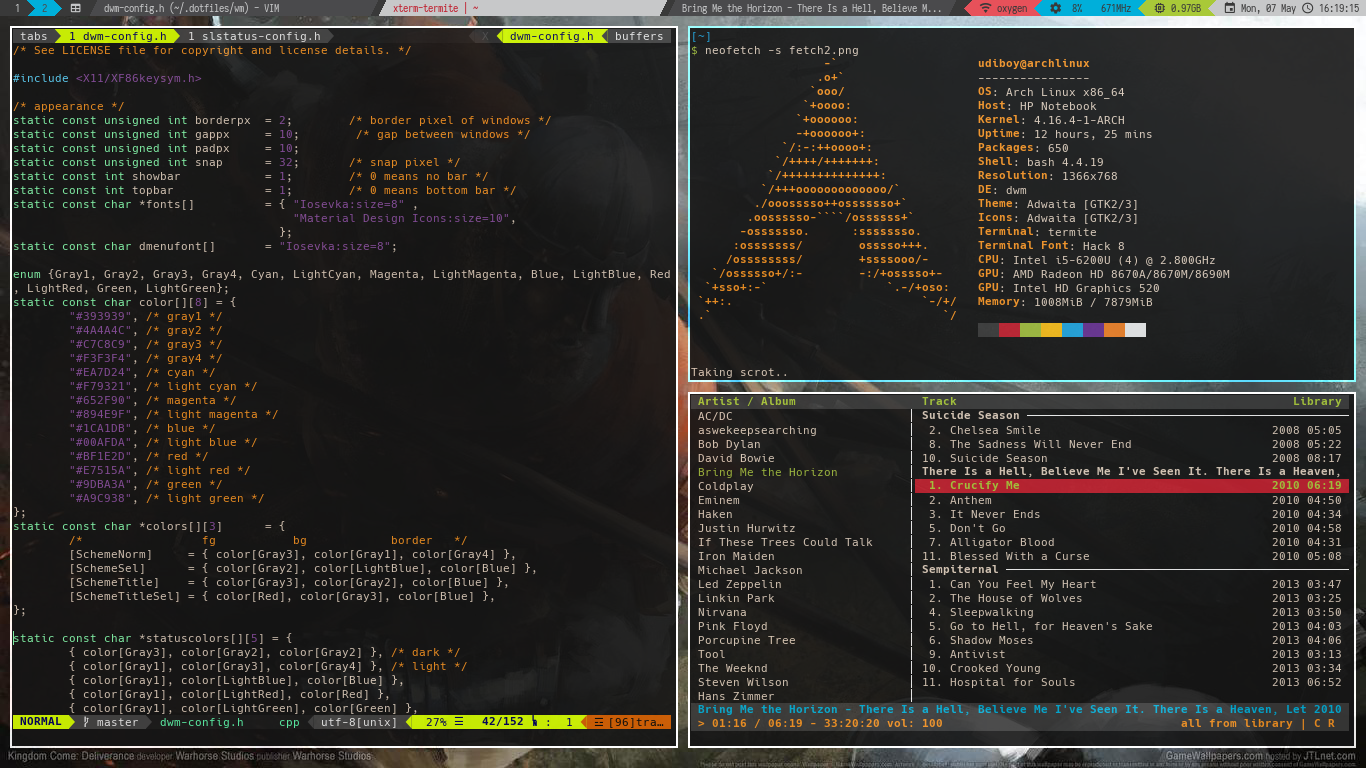
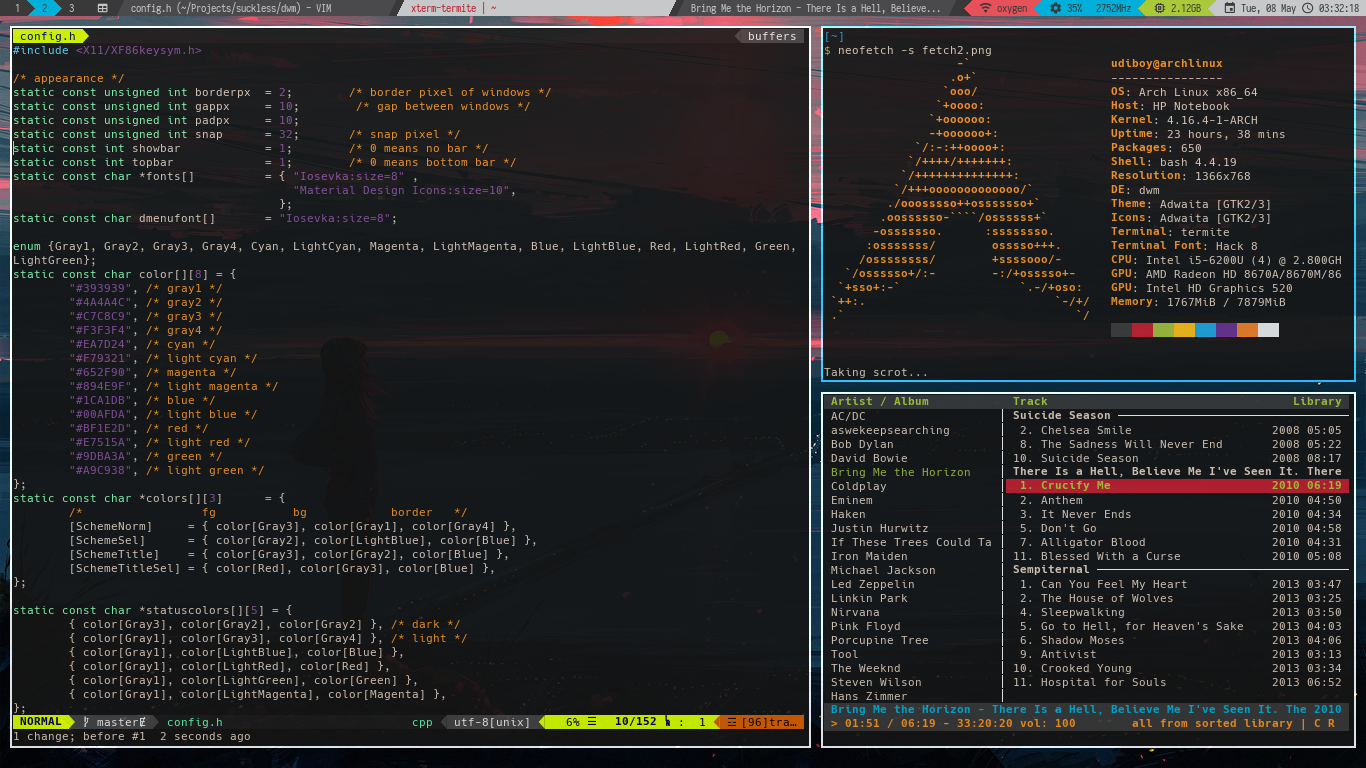
Updates

Changed region(s): [[0.0, 0.0, 1.0, 1.0], [0.3382, 0.3125, 0.3997, 0.375]]

diff --git a/wm/dwm-config.h b/wm/dwm-config.h
@@ -9,10 +9,10 @@ static const unsigned int padpx     = 10;
 static const unsigned int snap      = 32;       /* snap pixel */
 static const int showbar            = 1;        /* 0 means no bar */
 static const int topbar             = 1;        /* 0 means bottom bar */
-static const char *fonts[]          = { "Iosevka:size=8" ,
+static const char *fonts[]          = { "Hack:size=8" ,
                                         "Material Design Icons:size=10",
                                       };
-static const char dmenufont[]       = "Iosevka:size=8";
+static const char dmenufont[]       = "Hack:size=8";
 
 enum {Gray1, Gray2, Gray3, Gray4, Cyan, LightCyan, Magenta, LightMagenta, Blue, LightBlue, Red, LightRed, Green, LightGreen};
 static const char color[][8] = {
@@ -59,7 +59,6 @@ static const Rule rules[] = {
 	 */
 	/* class      instance    title       tags mask     isfloating   monitor */
 	{ "Gimp",     NULL,       NULL,       0,            1,           -1 },
-	{ "Firefox",  NULL,       NULL,       1 << 8,       0,           -1 },
 };
 
 /* layout(s) */
@@ -71,7 +70,7 @@ static const Layout layouts[] = {
 	/* symbol     arrange function */
 	{ "",      tile },    /* first entry is default */
 	{ "",      NULL },    /* no layout function means floating behavior */
-	{ "M",      monocle },
+	{ "[M]",      monocle },
 };
 
 /* key definitions */
@@ -87,8 +86,11 @@ static const Layout layouts[] = {
 
 /* commands */
 static char dmenumon[2] = "0"; /* component of dmenucmd, manipulated in spawn() */
-static const char *dmenucmd[] = { "dmenu_run", "-m", dmenumon, "-fn", dmenufont, "-nb", color[Gray1], "-nf", color[Gray3], "-sb", color[Cyan], "-sf", color[Gray2], NULL };
-static const char *termcmd[]  = { "termite", NULL };
+static const char *dmenucmd[] = { "dmenu_run", "-m", dmenumon, "-fn", dmenufont, "-nb", color[Gray1], "-nf", color[Gray3], "-sb", color[Blue], "-sf", color[Gray2], NULL };
+static const char *dmenutermcmd[] = { "dmenu_term", "-m", dmenumon, "-fn", dmenufont, "-nb", color[Gray1], "-nf", color[Gray3], "-sb", color[Blue], "-sf", color[Gray2], NULL };
+static const char *dmenunetcmd[] = { "dmenu_net", "-i", "-m", dmenumon, "-fn", dmenufont, "-nb", color[Gray1], "-nf", color[Gray3], "-sb", color[Blue], "-sf", color[Gray2], NULL };
+static const char *termcmd[] = { "termite", NULL };
+static const char *slock[] = { "xautolock", "-locknow", NULL };
 
 static const char *volumeup[]  = { "amixer", "set", "Master", "3+", NULL };
 static const char *volumedown[]  = { "amixer", "set", "Master", "3-", NULL };
@@ -99,6 +101,8 @@ static const char *brightdown[]  = { "xbacklight", "-5", NULL};
 static Key keys[] = {
 	/* modifier                     key        function        argument */
 	{ MODKEY,                       XK_p,      spawn,          {.v = dmenucmd } },
+	{ MODKEY,                       XK_e,      spawn,          {.v = dmenutermcmd } },
+	{ MODKEY,                       XK_n,      spawn,          {.v = dmenunetcmd } },
 	{ MODKEY,                       XK_t,      spawn,          {.v = termcmd } },
 	{ MODKEY,                       XK_b,      togglebar,      {0} },
 	{ MODKEY,                       XK_j,      focusstack,     {.i = +1 } },
@@ -131,6 +135,7 @@ static Key keys[] = {
         { 0,                            XF86XK_AudioMute,         spawn, {.v = volumemute } },
         { 0,                            XF86XK_MonBrightnessUp,   spawn, {.v = brightup } },
         { 0,                            XF86XK_MonBrightnessDown, spawn, {.v = brightdown } },
+        {MODKEY|ShiftMask,              XK_l,      spawn,         {.v = slock }},
 };
 
 /* button definitions */

diff --git a/wm/slstatus-config.h b/wm/slstatus-config.h
@@ -51,7 +51,8 @@ static const char unknown_str[] = " ";
  */
 static const struct arg args[] = {
 	/* function format     argument */
-        { wifi_essid, "<\x04 %s", "wlp3s0"},
+        { netspeed, "<\x04 %5s", NULL},
+        { wifi_essid, "|\x04 %s", "wlp3s0"},
         { cpu_perc, "<\x03 %2s%%", NULL },
         { cpu_freq, "|\x03%4sMHz", NULL },
         { ram_used, "<\x05 %sGB", NULL },
